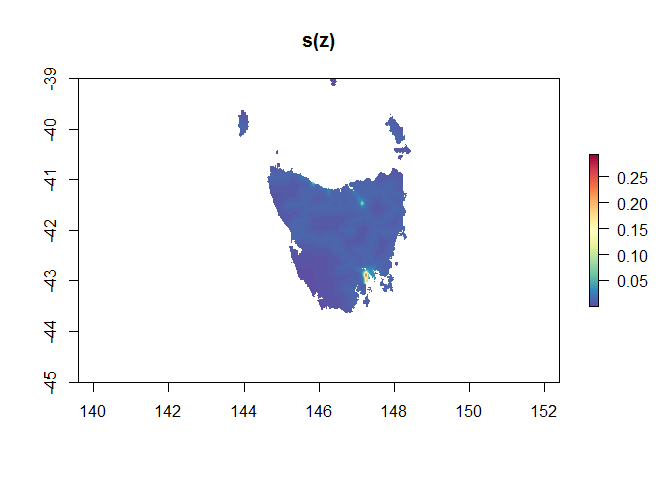
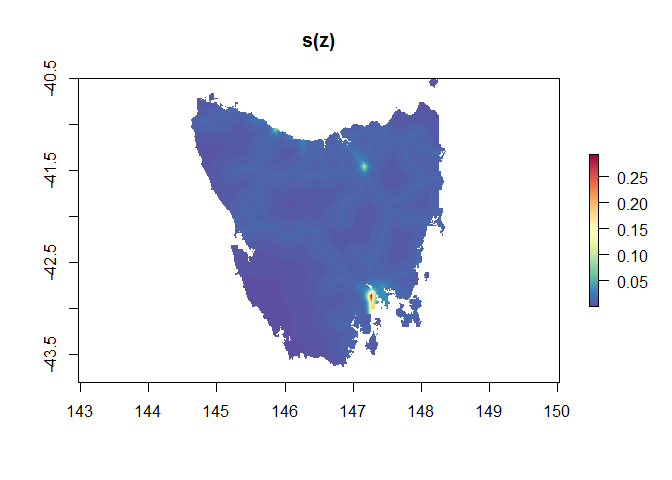
update to readme

diff --git a/readme.md b/readme.md
@@ -283,7 +283,8 @@ p_bias <- predict(object=tassie_preds,
 
 p_bias_cell <- p_bias*area(tassie_preds)*1000
 jet.colors <- colorRampPalette(rev(RColorBrewer::brewer.pal(11 , "Spectral")))
-plot(p_bias_cell,col=jet.colors(100),main="s(z)")
+plot(p_bias_cell,col=jet.colors(100),main="s(z)",
+  xlim=c(144.5, 148.5), ylim=c(-43.8,-40.5))
 ```
 
 ![](readme_files/figure-markdown_github/unnamed-chunk-16-1.png)
